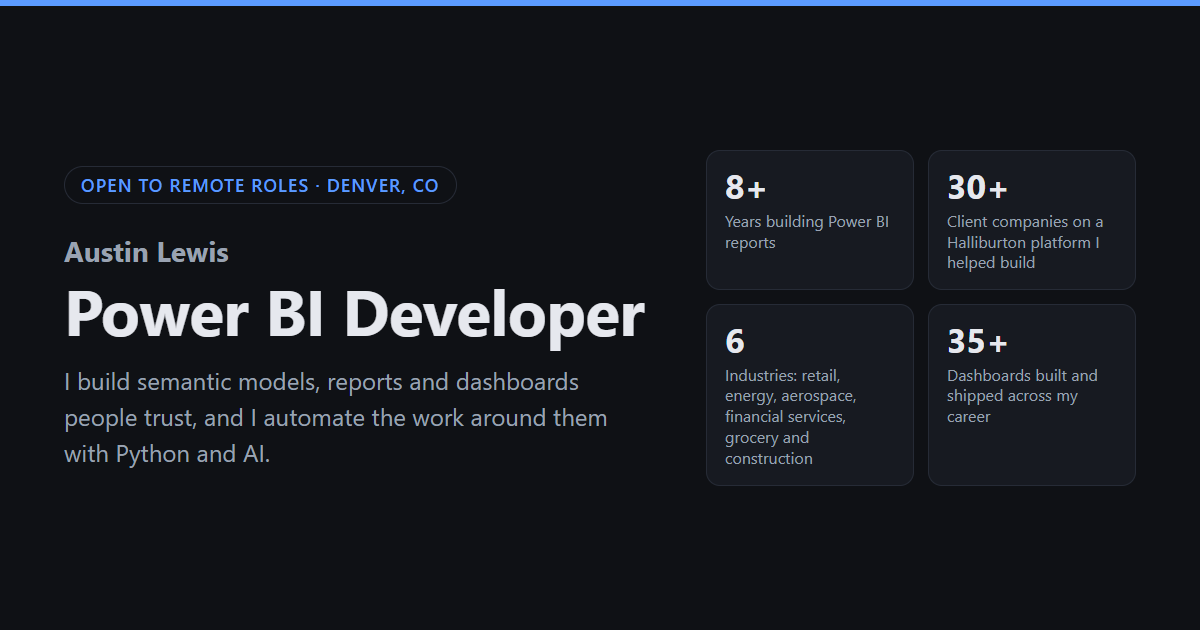
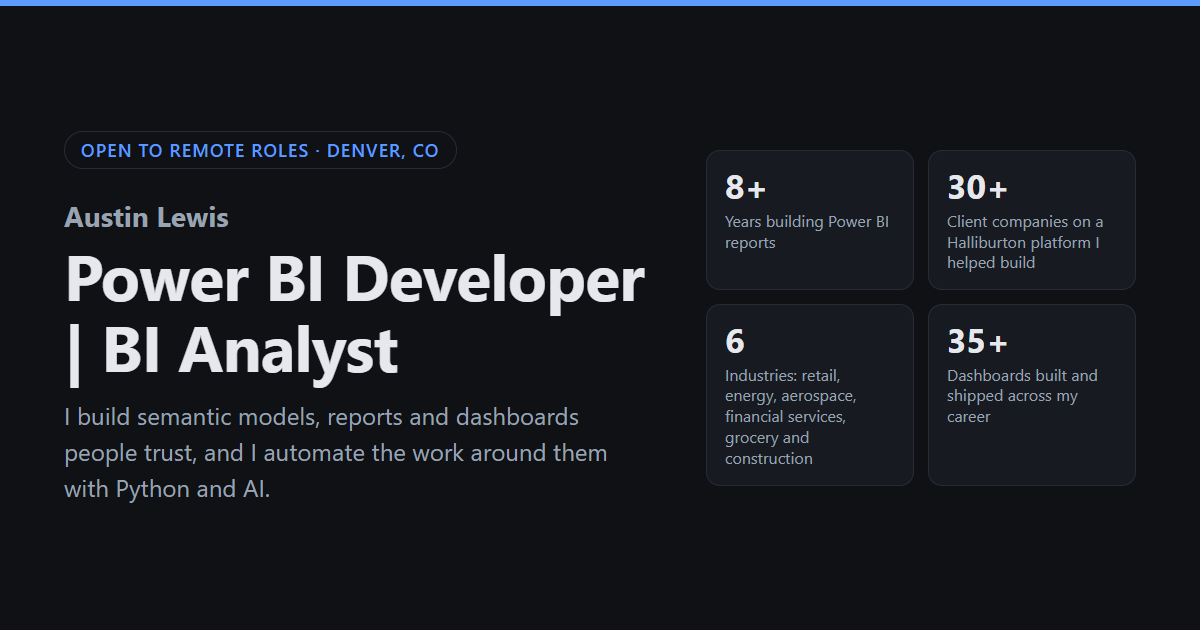
Headline: Power BI Developer | BI Analyst

Changed region(s): [[0.0308, 0.3921, 0.555, 0.7841], [0.0308, 0.2111, 0.37, 0.3619]]

diff --git a/index.html b/index.html
@@ -3,21 +3,21 @@
 <head>
 <meta charset="utf-8">
 <meta name="viewport" content="width=device-width, initial-scale=1">
-<title>Austin Lewis | Power BI Developer, Denver (Remote)</title>
-<meta name="description" content="Power BI Developer in Denver, CO, 8+ years: DAX, Snowflake and Azure BI semantic models, plus Python and AI automation. Open to remote roles.">
+<title>Austin Lewis | Power BI Developer | BI Analyst, Denver (Remote)</title>
+<meta name="description" content="Power BI Developer and BI Analyst in Denver, CO, 8+ years: DAX, Snowflake and Azure BI semantic models, plus Python and AI automation. Open to remote roles.">
 <meta name="author" content="Austin Lewis">
 <meta name="color-scheme" content="dark light">
 <meta name="theme-color" content="#0f1115" media="(prefers-color-scheme: dark)">
 <meta name="theme-color" content="#f6f7f9" media="(prefers-color-scheme: light)">
 <meta property="og:type" content="website">
 <meta property="og:site_name" content="Austin Lewis">
-<meta property="og:title" content="Austin Lewis | Power BI Developer, Denver (Remote)">
+<meta property="og:title" content="Austin Lewis | Power BI Developer | BI Analyst, Denver (Remote)">
 <meta property="og:description" content="I build semantic models, reports and dashboards people trust, and I automate the work around them with Python and AI. Sample reports, projects and contact.">
 <meta property="og:url" content="https://austinrlewis.github.io/">
-<meta property="og:image" content="https://austinrlewis.github.io/assets/og-image.png?v=5">
+<meta property="og:image" content="https://austinrlewis.github.io/assets/og-image.png?v=6">
 <meta name="twitter:card" content="summary_large_image">
-<meta name="twitter:image" content="https://austinrlewis.github.io/assets/og-image.png?v=5">
-<meta name="twitter:title" content="Austin Lewis | Power BI Developer, Denver (Remote)">
+<meta name="twitter:image" content="https://austinrlewis.github.io/assets/og-image.png?v=6">
+<meta name="twitter:title" content="Austin Lewis | Power BI Developer | BI Analyst, Denver (Remote)">
 <meta name="twitter:description" content="I build semantic models, reports and dashboards people trust, and I automate the work around them with Python and AI.">
 <link rel="canonical" href="https://austinrlewis.github.io/">
 <link rel="icon" href="assets/favicon.svg" type="image/svg+xml">
@@ -26,7 +26,7 @@
   "@context": "https://schema.org",
   "@type": "Person",
   "name": "Austin Lewis",
-  "jobTitle": "Power BI Developer",
+  "jobTitle": ["Power BI Developer", "BI Analyst"],
   "url": "https://austinrlewis.github.io/",
   "address": { "@type": "PostalAddress", "addressLocality": "Denver", "addressRegion": "CO", "addressCountry": "US" },
   "sameAs": ["https://www.linkedin.com/in/austin-lewis/", "https://github.com/austinrlewis"],
@@ -324,7 +324,7 @@
   <div class="wrap">
     <div>
       <span class="eyebrow">Open to remote roles &middot; Denver, CO</span>
-      <h1><span class="sr-only">Austin Lewis, </span>Power BI Developer</h1>
+      <h1><span class="sr-only">Austin Lewis, </span>Power BI Developer | BI Analyst</h1>
       <p class="lede">I build semantic models, reports and dashboards people trust, and I automate the work around them with Python and AI.</p>
       <ul class="chips" aria-label="Core tools">
         <li>Power BI</li><li>DAX</li><li>Snowflake</li><li>Azure BI</li><li>SQL</li><li>Python</li><li>Copilot</li>
